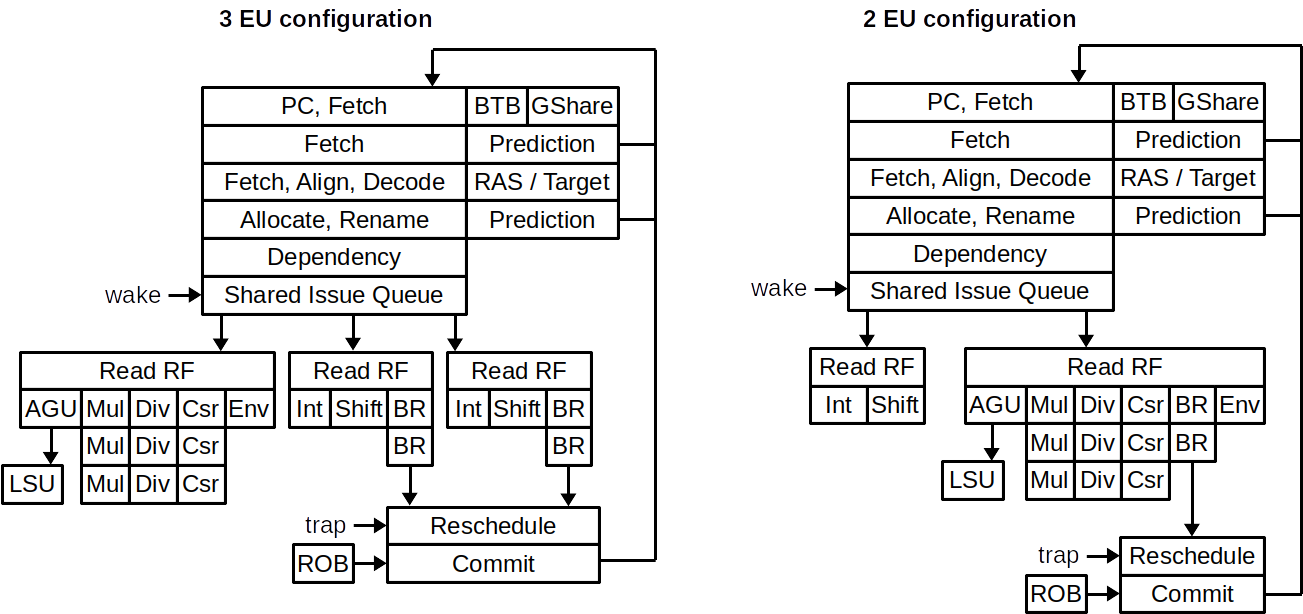
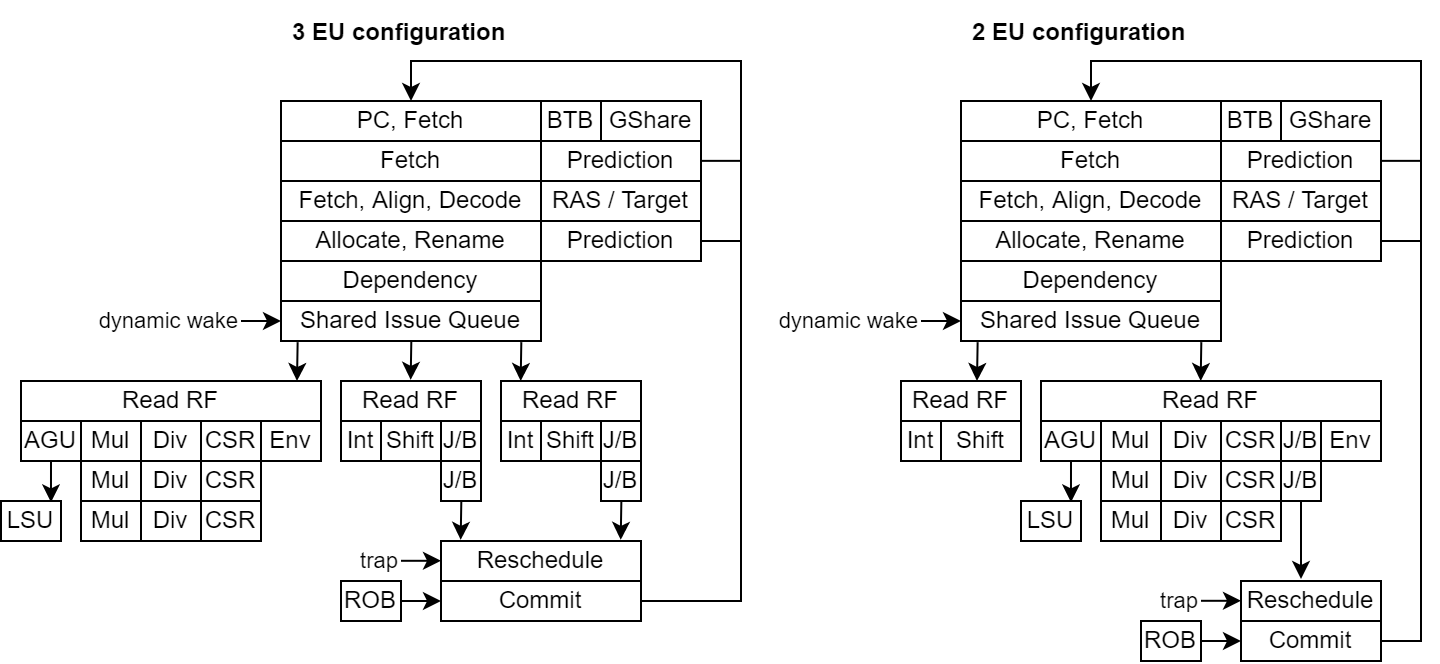
Add performance doc

Changed region(s): [[0.0, 0.0, 1.0, 1.0]]

diff --git a/source/NaxRiscv/performance/index.rst b/source/NaxRiscv/performance/index.rst
@@ -1,11 +1,76 @@
-===============
+.. role:: raw-html-m2r(raw)
+   :format: html
+
+
+
+
+====================
+Performance and Area
+====================
+
+
 Performance
 ===============
 
-.. toctree::
+A few things to keep in mind : 
+
+- You can trade FMax IPC Area
+- There is better IPC xor FMAX xor Area configs  
+
+For the following configuration : 
+
+- RV32IMASU, dual issue,OoO, linux compatible
+- 64 bits fetch, 2 decode, 2 issue, 2 retire
+- Shared issue queue with 32 entries
+- Renaming with 64 physical registers
+- 2 execution unit (1\*Int/Shift, 1\*Branch/load/store/mul/div/csr/env)
+- LSU with 16 load queue, 16 store queue
+- Load hit predictor (3 cycles load to use delay)
+- Store to load bypass / hazard free predictor
+- I$ 16KB/4W, D$ 16KB/4W 2 refill 2 writeback slots
+- MMU with ITLB 6 way/192 entries, DTLB 6 way/192 entries
+- BTB 1 way/512 entries, GSHARE 1 way/4KB, RAS 32 entries
+
+Performance : 
+
+- Dhrystone   : 2.51 DMIPS/Mhz    (-O3 -fno-common -fno-inline)
+- Coremark    : 4.22 Coremark/Mhz (-O3 and so many more random flags)
+- Embench-iot : 1.33 baseline     (-O2 -ffunction-sections)
+
+On Artix 7 speed grade 3 :
+
+- 13.1 KLUT, 9.3 KFF, 13 BRAM, 4 DSP
+- 145 Mhz
+
+Performance :
+
+- Dhrystone   : 2.59 DMIPS/Mhz    1.42 IPC (-O3 -fno-common -fno-inline)
+- Coremark    : 4.70 Coremark/Mhz 1.19 IPC (-O3 and so many more random flags)
+- Embench-iot : 1.55 baseline     1.32 IPC (-O2 -ffunction-sections)
+
+On Artix 7 speed grade 3 :
+
+- 15.0 KLUT, 9.5 KFF, 13 BRAM, 4 DSP
+- 145 Mhz
+
+To go further, increasing the GSHARE storage or implementing something as TAGE should help.
+
+Here are a pipeline representation of the two above configurations : 
+
+.. image:: /asset/image/pipeline_simple.png
+
+Also notes that the NaxRiscv simulator support gem5 / konata logs, allowing to visualise the execution flow.
 
 
-.. role:: raw-html-m2r(raw)
-   :format: html
+Notes
+===============
+
+Here is a few notes collected durring the developpement : 
+
+- An out of order CPU without branch prediction is will perform realy bad ^^
+- Avoiding store having to wait for the store data in the IQ can realy help avoiding bad load speculation.
+- Some tests were made with two cycle latency ALU (in prevision of RV64 timing relaxation) seems to show "little" impact on the overall performances (~15%, need to verify on more benchmarks)
+- Adding more and more execution units seems to goerealy fast into diminushing returns lands
+
 
 

diff --git a/source/index.rst b/source/index.rst
@@ -37,34 +37,6 @@ An RISC-V core currently characterised by :
 
 To test the project, see the “Running Verilator simulation” section
 
-Performance / Area
-==================
-
-A few things to keep in mind : 
-- it is still WIP
-- You can trade FMax IPC Area
-- There is better IPC nor FMAX nor Area configs  
-
-For the following configuration : 
-- RV32IMASU, dual issue,OoO, linux compatible
-- 64 bits fetch, 2 decode, 2 issue, 2 retire
-- Shared issue queue with 32 entries
-- 2 execution unit (1\*Int/Shift, 1\*Branch/load/store/mul/div/csr/env)
-- LSU with 16 load queue, 16 store queue
-- Load hit predictor (3 cycles load to use delay)
-- Store to load bypass / hazard free predictor
-- I$ 16KB/4W, D$ 16KB/4W 2 refill 2 writeback slots
-- MMU with ITLB 6 way/192 entries, DTLB 6 way/192 entries
-- BTB 1 way/512 entries, GSHARE 1 way/4KB, RAS 32 entries
-
-Performance : 
-- Dhrystone   : 2.51 DMIPS/Mhz    (-O3 -fno-common -fno-inline)
-- Coremark    : 4.22 Coremark/Mhz (-O3 and so many more random flags)
-- Embench-iot : 1.33 baseline     (-O2 -ffunction-sections)
-
-On Artix 7 speed grade 3 :
-- 13.1 KLUT, 9.3 KFF, 13 BRAM, 4 DSP
-- 145 Mhz
 
 
 Running Verilator simulation

diff --git a/source/NaxRiscv/introduction/naxriscv.rst b/source/NaxRiscv/introduction/naxriscv.rst
@@ -43,3 +43,5 @@ There is a few reasons
 Also there wasn't many OoO opensource softcore out there in the wild (Marocchino, RSD, OPA, ..). 
 The bet was that it was possible to do better in some metrics, and hopfully being good enough to justify in some project
 the replacement of single issue / in order core softcore by providing better performances (at the cost of area).
+
+
